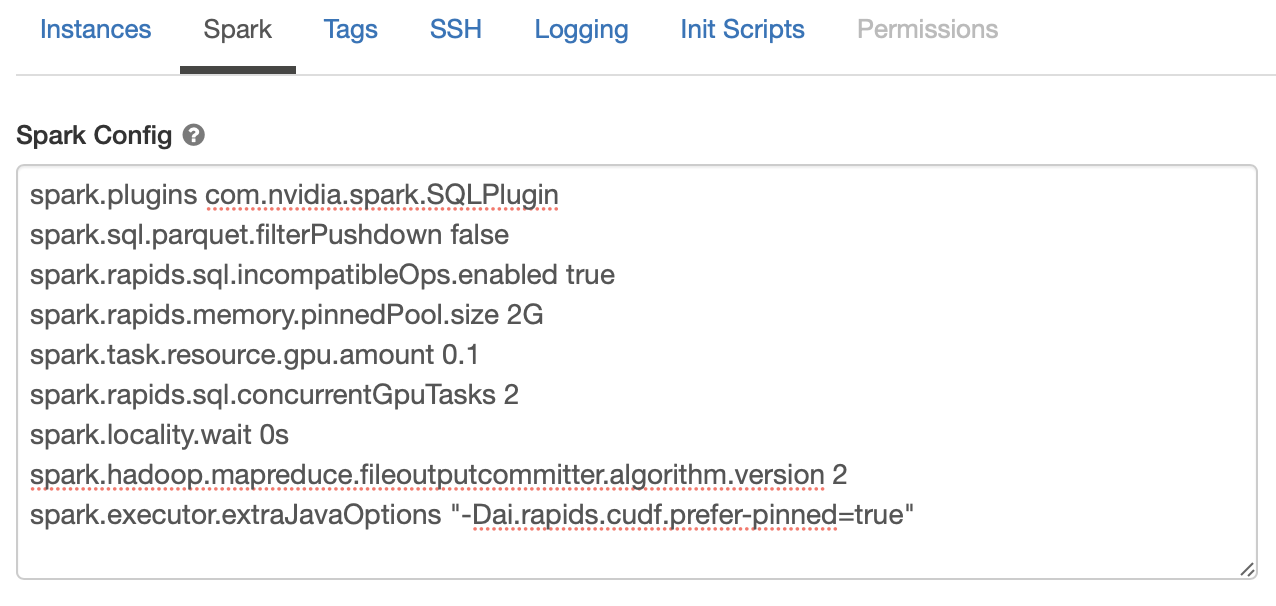
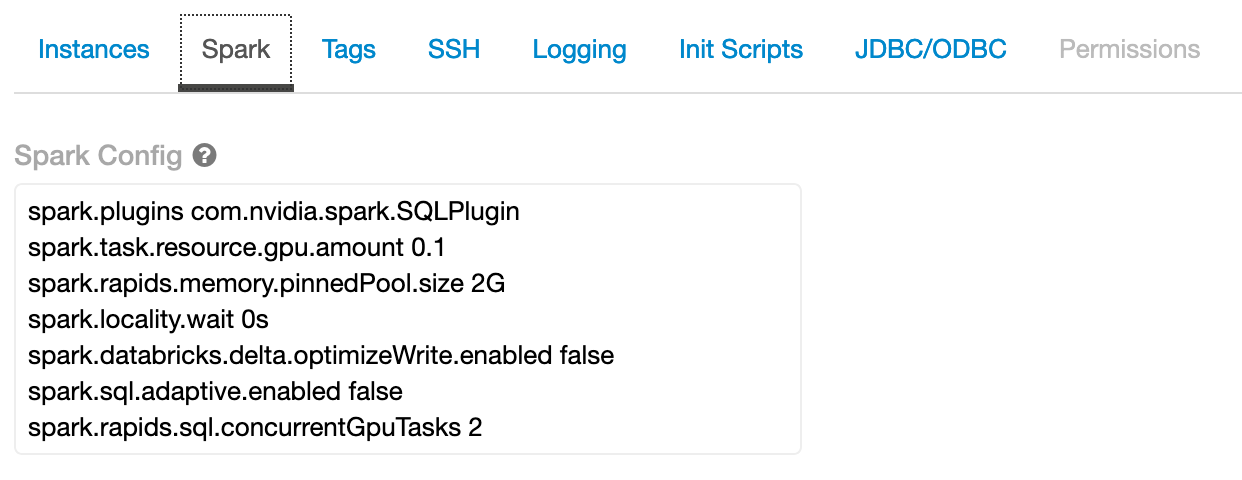
Updating Databricks getting started for 0.3 release (#1266)

diff --git a/docs/get-started/getting-started-databricks.md b/docs/get-started/getting-started-databricks.md
@@ -10,19 +10,19 @@ This guide will run through how to set up the RAPIDS Accelerator for Apache Spar
 
 ## Prerequisites
     * Apache Spark 3.0 running in DataBricks Runtime 7.3 ML with GPU
-    * AWS:7.3 LTS ML (includes Apache Spark 3.0.1, GPU, Scala 2.12)
+    * AWS: 7.3 LTS ML (GPU, Scala 2.12, Spark 3.0.1)
     * Azure: 7.3 LTS ML (GPU, Scala 2.12, Spark 3.0.1)
 
 The number of GPUs per node dictates the number of Spark executors that can run in that node.
 
 ## Start a Databricks Cluster
-Create a Databricks cluster by going to Clusters, then clicking “+ Create Cluster”. Ensure the cluster meets the prerequisites above by configuring it as follows:
-1. Select the DataBricks Runtime Version from one of the supported runtimes specified in the Prerequisites section.
-2. Under Autopilot Options, disable auto scaling.
+Create a Databricks cluster by going to Clusters, then clicking “+ Create Cluster”.  Ensure the cluster meets the prerequisites above by configuring it as follows:
+1. Select the Databricks Runtime Version from one of the supported runtimes specified in the Prerequisites section.
+2. Under Autopilot Options, disable autoscaling.
 3. Choose the number of workers that matches the number of GPUs you want to use.
-4. Select a worker type.  On AWS, use nodes with 1 GPU each such as `p3.xlarge` or `g4dn.xlarge`.  p2 nodes do not meet the architecture requirements for the Spark worker (although they can be used for the driver node).  For Azure, choose GPU nodes such as Standard_NC6s_v3. 
+4. Select a worker type.  On AWS, use nodes with 1 GPU each such as `p3.2xlarge` or `g4dn.xlarge`.  p2 nodes do not meet the architecture requirements (Pascal or higher) for the Spark worker (although they can be used for the driver node).  For Azure, choose GPU nodes such as Standard_NC6s_v3.
 5. Select the driver type. Generally this can be set to be the same as the worker.
-6. Start the cluster
+6. Start the cluster.
 
 ## Advanced Cluster Configuration
 
@@ -40,12 +40,19 @@ We will need to create an initialization script for the cluster that installs th
 
     The [`spark.task.resource.gpu.amount`](https://spark.apache.org/docs/latest/configuration.html#scheduling) configuration is defaulted to 1 by Databricks. That means that only 1 task can run on an executor with 1 GPU, which is limiting, especially on the reads and writes from Parquet.  Set this to 1/(number of cores per executor) which will allow multiple tasks to run in parallel just like the CPU side.  Having the value smaller is fine as well. 
 
+	There is an incompatibility between the Databricks specific implementation of adaptive query
+    execution (AQE) and the spark-rapids plugin.  In order to mitigate this,
+    `spark.sql.adaptive.enabled` should be set to false.  In addition, the plugin does not work with
+    the Databricks `spark.databricks.delta.optimizeWrite` option.
+
     ```bash
     spark.plugins com.nvidia.spark.SQLPlugin
-    spark.rapids.memory.pinnedPool.size 2G
     spark.task.resource.gpu.amount 0.1
-    spark.rapids.sql.concurrentGpuTasks 2
+    spark.rapids.memory.pinnedPool.size 2G
     spark.locality.wait 0s
+    spark.databricks.delta.optimizeWrite.enabled false
+    spark.sql.adaptive.enabled false
+    spark.rapids.sql.concurrentGpuTasks 2
     ```
 
     ![Spark Config](../img/sparkconfig.png)
@@ -70,7 +77,7 @@ mkdir /dbfs/FileStore/tables/mortgage_parquet_gpu/output
 tar xfvz /Users/<your user id>/mortgage_2000.tgz --directory /dbfs/FileStore/tables/mortgage
 ```
 
-In Cell 3, update the data paths if necessary. The example notebook merges the columns and prepares the data for XGoost training. The temp and final output results are written back to the dbfs. 
+In Cell 3, update the data paths if necessary. The example notebook merges the columns and prepares the data for XGBoost training. The temp and final output results are written back to the dbfs. 
 ```bash
 orig_perf_path='dbfs:///FileStore/tables/mortgage/perf/*'
 orig_acq_path='dbfs:///FileStore/tables/mortgage/acq/*'
@@ -82,3 +89,4 @@ Run the notebook by clicking “Run All”.
 
 ## Hints
 Spark logs in Databricks are removed upon cluster shutdown.  It is possible to save logs in a cloud storage location using Databricks [cluster log delivery](https://docs.databricks.com/clusters/configure.html#cluster-log-delivery-1).  Enable this option before starting the cluster to capture the logs. 
+
